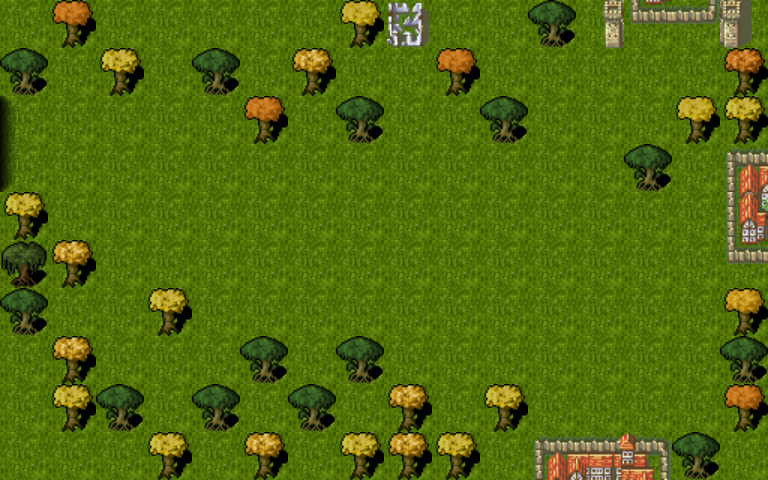
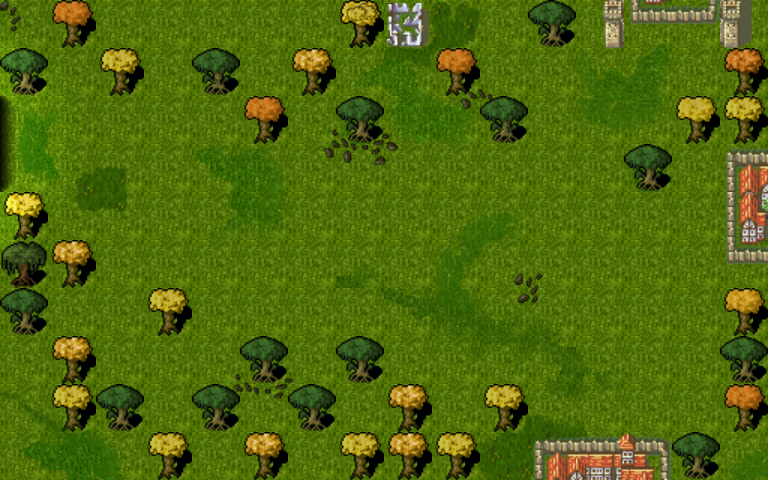
Graphics Updates to a few assets. Addition of a background image to the level screens.

diff --git a/src/scenes/level_scene.py b/src/scenes/level_scene.py
@@ -185,12 +185,15 @@ class LevelScene(Scene):
         self.number: int = number
 
         map_image: pygame.Surface = pygame.image.load(self.directory + "map.png")
+        map_bg: pygame.Surface = pygame.image.load(self.directory + "bg.png")
+        map_bg = pygame.transform.scale(map_bg, (WIN_WIDTH, WIN_HEIGHT))
         self.map: dict[str, any] = {
             "img": map_image,
             "width": map_image.get_width(),
             "height": map_image.get_height(),
             "x": (MAX_MAP_WIDTH - map_image.get_width()) // 2,
             "y": (MAX_MAP_HEIGHT - map_image.get_height()) // 2,
+            "bg": map_bg,
         }
 
         self.tree: etree.Element = etree.parse(self.directory + "data.xml").getroot()
@@ -517,6 +520,7 @@ class LevelScene(Scene):
         Display also all the menus in the background (that should be visible)
         and lastly the active menu.
         """
+        self.screen.blit(self.map["bg"],(0,0))
         self.active_screen_part.blit(self.map["img"], (self.map["x"], self.map["y"]))
         self.sidebar.display(self.active_screen_part, self.turn, self.hovered_entity)
 

diff --git a/src/scenes/start_scene.py b/src/scenes/start_scene.py
@@ -128,6 +128,9 @@ class StartScene(Scene):
         if StartScene.screen_size == 2:
             flags = pygame.FULLSCREEN
             size = (0, 0)
+            import os
+            os.environ['SDL_VIDEO_CENTERED'] = '1'
+            pygame.init()
         return pygame.display.set_mode(size, flags)
 
     def update_state(self) -> bool:
@@ -206,7 +209,7 @@ class StartScene(Scene):
                         ]
                     ],
                     width=width,
-                    background_path="imgs/interface/PopUpMenu.png",
+                    background_path="imgs/interface/PopUpMenuLandscape.png",
                 )
             )
 
@@ -225,7 +228,7 @@ class StartScene(Scene):
                         ]
                     ],
                     width=width,
-                    background_path="imgs/interface/PopUpMenu.png",
+                    background_path="imgs/interface/PopUpMenuLandscape.png",
                 )
             )
 

diff --git a/main.py b/main.py
@@ -59,7 +59,7 @@ if __name__ == "__main__":
 
     # Configure pygame-popup manager : set default assets to be used
     pygamepopup.configuration.set_info_box_title_font(fonts.fonts["MENU_TITLE_FONT"])
-    pygamepopup.configuration.set_info_box_background("imgs/interface/PopUpMenu.png")
+    pygamepopup.configuration.set_info_box_background("imgs/interface/PopUpMenuLandscape.png")
     pygamepopup.configuration.set_button_title_font(fonts.fonts["BUTTON_FONT"])
     pygamepopup.configuration.set_dynamic_button_title_font(fonts.fonts["BUTTON_FONT"])
     pygamepopup.configuration.set_button_background(
